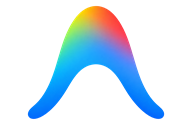
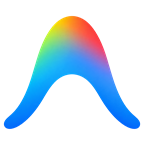
Google Stitch, fond AMAP et hobby Riftbound
- Picto Google Stitch recadré sur son contenu (même taille que les
  autres) ; libellé « Google Stitch » dans les outils et chez Inzerty
- Aperçu AMAP sur fond #F6EDD5
- À propos : 3e carte hobby « Riftbound » (TCG League of Legends) sur
  toute la largeur ; « Riftbound » et « TCG » reconnus dans le chat

Changed region(s): [[0.0278, 0.0312, 0.6111, 0.9375], [0.5556, 0.1562, 0.9722, 0.9375], [0.4444, 0.5, 0.5556, 0.5312]]

diff --git a/js/answers.js b/js/answers.js
@@ -150,7 +150,7 @@
         <div class="tool-card"><img src="img/picto_adobe_illustrator_homepage.png" alt="" /><span>Illustrator</span></div>
         <div class="tool-card"><img src="img/picto_indesign_homepage.png" alt="" /><span>InDesign</span></div>
         <div class="tool-card"><img src="img/picto_premiere_homepage.png" alt="" /><span>Premiere</span></div>
-        <div class="tool-card"><img src="img/picto_google_stitch_homepage.png" alt="" /><span>Stitch</span></div>
+        <div class="tool-card"><img src="img/picto_google_stitch_homepage.png" alt="" /><span>Google Stitch</span></div>
         <div class="tool-card"><img src="img/picto_figma_outils_homepage.png" alt="" /><span>Figma</span></div>
         <div class="tool-card"><img src="img/picto_adobe_photoshop_homepage.png" alt="" /><span>Photoshop</span></div>
         <div class="tool-card"><img src="img/picto_wordpress.png" alt="" /><span>WordPress</span></div>
@@ -221,6 +221,13 @@
             <p data-fr="Collection et pratique de jeu vidéo depuis de nombreuses années (pour étancher ma soif de découverte et d'exploration !), c'est une passion qui ne m'a jamais quitté depuis tout petit." data-en="Collecting and playing video games for many years (to quench my thirst for discovery and exploration!), a passion that has never left me since childhood.">Collection et pratique de jeu vidéo depuis de nombreuses années (pour étancher ma soif de découverte et d'exploration !), c'est une passion qui ne m'a jamais quitté depuis tout petit.</p>
           </div>
         </div>
+        <div class="hobby-card hobby-card--wide">
+          <img src="img/img_hobby_riftbound.png" alt="Riftbound, le jeu de cartes League of Legends" />
+          <div class="hobby-body">
+            <h3><span class="ico" data-icon="cards"></span>Riftbound</h3>
+            <p data-fr="Depuis quelque temps, je joue au nouveau TCG Riftbound, le jeu de cartes à collectionner de l'univers League of Legends. Il me permet de voir les jeux de stratégie et les jeux de cartes sous un nouvel angle." data-en="For a while now, I've been playing the new TCG Riftbound, the trading card game set in the League of Legends universe. It lets me see strategy games and card games from a new angle.">Depuis quelque temps, je joue au nouveau TCG Riftbound, le jeu de cartes à collectionner de l'univers League of Legends. Il me permet de voir les jeux de stratégie et les jeux de cartes sous un nouvel angle.</p>
+          </div>
+        </div>
       </div>
       <div class="answer-actions">
         <a href="img/CV_DRUESNE_Thomas.pdf" class="btn btn-accent" target="_blank" rel="noopener"><span class="ico" data-icon="cv"></span><span data-fr="Mon CV" data-en="My resume">Mon CV</span></a>
@@ -281,7 +288,7 @@
           <ul class="detail-list detail-list--tools">
             <li><img src="img/picto_figma_outils_homepage.png" alt="" />Figma</li>
             <li><img src="img/picto_wordpress.png" alt="" />WordPress</li>
-            <li><img src="img/picto_google_stitch_homepage.png" alt="" />Stitch</li>
+            <li><img src="img/picto_google_stitch_homepage.png" alt="" />Google Stitch</li>
             <li><img src="img/picto_js.png" alt="" />JavaScript</li>
             <li><img src="img/picto_html.png" alt="" />HTML5</li>
             <li><img src="img/picto_css.png" alt="" />CSS3</li>
@@ -331,7 +338,7 @@
     <!-- PROJET — AMAP de Moreuil -->
     <article data-topic="projet-amap" data-q-fr="Parle-moi du projet de l'AMAP" data-q-en="Tell me about the AMAP project">
       <h2 class="project-title" data-fr="Création du site web de l'AMAP de Moreuil" data-en="Creation of the AMAP de Moreuil website">Création du site web de l'AMAP de Moreuil</h2>
-      <figure class="project-shot project-shot--fit"><img src="img/logo_amap_moreuil.png" alt="Logo de l'AMAP de Moreuil" /></figure>
+      <figure class="project-shot project-shot--fit project-shot--amap"><img src="img/logo_amap_moreuil.png" alt="Logo de l'AMAP de Moreuil" /></figure>
       <p class="project-desc" data-fr-html="Création du site web de l'<strong>AMAP de Moreuil</strong> (Somme), une <strong>association</strong> pour le maintien d'une agriculture paysanne qui relie ses adhérents, les <strong>amapiens</strong>, à <strong>8 producteurs locaux</strong>, pour la plupart en <strong>agriculture biologique</strong>, dans un <strong>partenariat solidaire et en circuit court</strong>." data-en-html="Creation of the website of the <strong>AMAP de Moreuil</strong> (Somme, France), an <strong>association</strong> supporting small-scale farming that connects its members, the <strong>amapiens</strong>, with <strong>8 local producers</strong>, most of them <strong>certified organic</strong>, through a <strong>solidarity-based, short-supply-chain partnership</strong>.">Création du site web de l'<strong>AMAP de Moreuil</strong> (Somme), une <strong>association</strong> pour le maintien d'une agriculture paysanne qui relie ses adhérents, les <strong>amapiens</strong>, à <strong>8 producteurs locaux</strong>, pour la plupart en <strong>agriculture biologique</strong>, dans un <strong>partenariat solidaire et en circuit court</strong>.</p>
       <p class="project-desc" data-fr-html="L'association avait besoin de <strong>mettre en avant sur le web</strong> son <strong>système de panier hebdomadaire</strong> (légumes, pain, œufs, fromages, fruits, miel, viande… distribués <strong>chaque jeudi</strong>) ainsi que <strong>ses producteurs</strong>. Le site présente donc clairement le <strong>fonctionnement des contrats</strong> et les <strong>producteurs partenaires</strong>, et invite les visiteurs à <strong>devenir amapien</strong>." data-en-html="The association needed to <strong>showcase online</strong> its <strong>weekly basket system</strong> (vegetables, bread, eggs, cheese, fruit, honey, meat… distributed <strong>every Thursday</strong>) as well as <strong>its producers</strong>. The site therefore clearly presents <strong>how the contracts work</strong> and the <strong>partner producers</strong>, and invites visitors to <strong>become an amapien</strong>.">L'association avait besoin de <strong>mettre en avant sur le web</strong> son <strong>système de panier hebdomadaire</strong> (légumes, pain, œufs, fromages, fruits, miel, viande… distribués <strong>chaque jeudi</strong>) ainsi que <strong>ses producteurs</strong>. Le site présente donc clairement le <strong>fonctionnement des contrats</strong> et les <strong>producteurs partenaires</strong>, et invite les visiteurs à <strong>devenir amapien</strong>.</p>
       <div class="project-details">

diff --git a/js/app.js b/js/app.js
@@ -170,7 +170,7 @@
     ['competences', /(compétence|competence|skill|\bia\b|\bai\b|intelligence artificielle|\bagents?\b|automatisation|automation|sais[- ]tu faire|\bux\b|\bui\b|\bseo\b|référencement|referencement|design|intégration|integration|responsive)/],
     ['parcours',    /(parcours|expérience|experience|carrière|carriere|career|stage|alternance|\bjobs?\b|emploi|background|formation|diplôme|diplome|études|etudes|école|ecole|master)/],
     ['outils',      /(outil|tool|logiciel|software|figma|adobe|photoshop|illustrator|indesign|premiere|wordpress|html|css|javascript|\bjs\b|chatgpt|claude|stitch)/],
-    ['apropos',     /(qui es[- ]tu|who are you|\btoi\b|yourself|\babout\b|à propos|a propos|hobby|hobbies|passion|loisir|magic|jeux? vidéo|jeux? video|video games?)/],
+    ['apropos',     /(qui es[- ]tu|who are you|\btoi\b|yourself|\babout\b|à propos|a propos|hobby|hobbies|passion|loisir|magic|riftbound|tcg|jeux? vidéo|jeux? video|video games?)/],
     ['hello',       /^(bonjour|salut|hello|hi|hey|coucou|yo)\b/]
   ];
 

diff --git a/index.html b/index.html
@@ -11,7 +11,7 @@
   <link rel="preconnect" href="https://fonts.googleapis.com" />
   <link rel="preconnect" href="https://fonts.gstatic.com" crossorigin />
   <link rel="stylesheet" href="https://fonts.googleapis.com/css2?family=Raleway:wght@400;500;600;700;800&amp;display=swap" />
-  <link rel="stylesheet" href="css/app.css?v=14" />
+  <link rel="stylesheet" href="css/app.css?v=15" />
 </head>
 <body data-page="home">
 
@@ -87,10 +87,10 @@
   </div>
 
 
-  <script src="js/layout.js?v=14"></script>
-  <script src="js/answers.js?v=14"></script>
-  <script src="js/icons.js?v=14"></script>
-  <script src="js/particles.js?v=14"></script>
-  <script src="js/app.js?v=14"></script>
+  <script src="js/layout.js?v=15"></script>
+  <script src="js/answers.js?v=15"></script>
+  <script src="js/icons.js?v=15"></script>
+  <script src="js/particles.js?v=15"></script>
+  <script src="js/app.js?v=15"></script>
 </body>
 </html>

diff --git a/chat.html b/chat.html
@@ -11,7 +11,7 @@
   <link rel="preconnect" href="https://fonts.googleapis.com" />
   <link rel="preconnect" href="https://fonts.gstatic.com" crossorigin />
   <link rel="stylesheet" href="https://fonts.googleapis.com/css2?family=Raleway:wght@400;500;600;700;800&amp;display=swap" />
-  <link rel="stylesheet" href="css/app.css?v=14" />
+  <link rel="stylesheet" href="css/app.css?v=15" />
 </head>
 <body data-page="chat">
 
@@ -75,9 +75,9 @@
     </main>
   </div>
 
-  <script src="js/layout.js?v=14"></script>
-  <script src="js/answers.js?v=14"></script>
-  <script src="js/icons.js?v=14"></script>
-  <script src="js/app.js?v=14"></script>
+  <script src="js/layout.js?v=15"></script>
+  <script src="js/answers.js?v=15"></script>
+  <script src="js/icons.js?v=15"></script>
+  <script src="js/app.js?v=15"></script>
 </body>
 </html>

diff --git a/css/app.css b/css/app.css
@@ -928,3 +928,9 @@ html.lang-out textarea::placeholder { opacity: 0; }
 /* Aperçu dont le logo n'a pas de marge (ex. AMAP) : affiché entier, sans zoom */
 .project-shot--fit { padding: 1.5rem; }
 .project-shot--fit img { transform: none; }
+
+/* AMAP : fond crème derrière le logo coloré */
+.project-shot--amap { background: #F6EDD5; }
+
+/* Hobbies : la 3e carte (Riftbound) prend toute la largeur, sous les deux autres */
+.hobby-card--wide { grid-column: 1 / -1; }

diff --git a/js/particles.js b/js/particles.js
@@ -121,7 +121,7 @@
     if (triedFallback) return;
     triedFallback = true;
     var s = document.createElement('script');
-    s.src = 'js/photo-data.js?v=14';
+    s.src = 'js/photo-data.js?v=15';
     s.onload = function () {
       if (!window.PHOTO_FALLBACK) return;
       var img = new Image();
